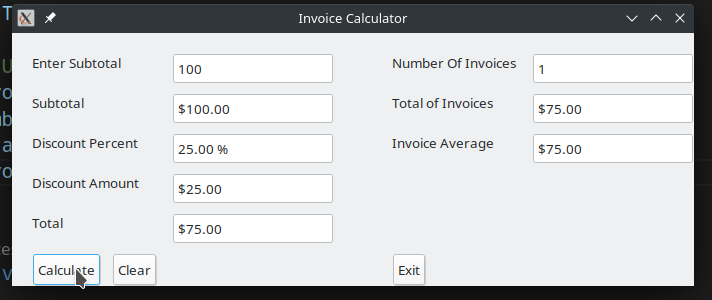
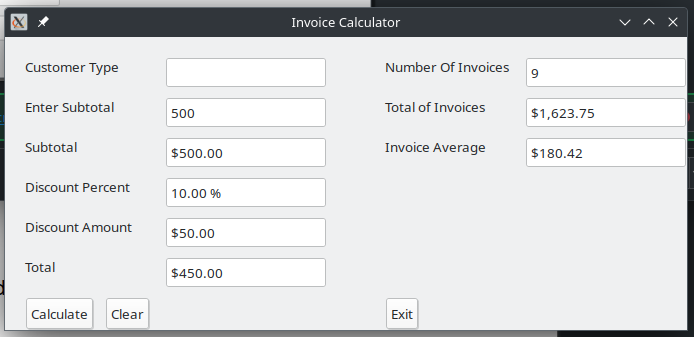
Complete lab 4

diff --git a/Assignments/Lab4_EnhancedInvoiceTotal/InvoiceCalculator.cs b/Assignments/Lab4_EnhancedInvoiceTotal/InvoiceCalculator.cs
@@ -1,0 +1,227 @@
+using System;
+using System.Collections.Generic;
+using System.Linq;
+using Gtk;
+
+// Alias
+using con = System.Console;
+
+class Calculator : Window
+{
+    // Static memory
+    static NumericInput custType;
+
+    static NumericInput inSubtotal;
+
+    static NumericInput outSubtotal;
+
+    static NumericInput outDiscountPercent;
+
+    static NumericInput outDiscountAmount;
+
+    static NumericInput outTotal;
+
+    static NumericInput numberInvoices;
+
+    static NumericInput totalInvoices;
+
+    static NumericInput invoiceAverage;
+
+    // Other memory
+    static List<double> invoiceList = new List<double>();
+
+    public Calculator() :
+        base("Color Dialog")
+    {
+        // Start this application
+        Application.Init();
+
+        // Setup all objects
+        Fixed fix = new Fixed();
+        Button calcBtn = new Button("Calculate");
+        fix.Put(calcBtn, 20, 260);
+        Button clearBtn = new Button("Clear");
+        fix.Put(clearBtn, 100, 260);
+        Button exitBtn = new Button("Exit");
+        fix.Put(exitBtn, 380, 260);
+
+        // All the input boxes
+        custType = new NumericInput("Customer Type", "R");
+        fix.Put(custType.localFix, 20, 20);
+        inSubtotal = new NumericInput("Enter Subtotal", "");
+        fix.Put(inSubtotal.localFix, 20, 60);
+        outSubtotal = new NumericInput("Subtotal", "$50.00");
+        fix.Put(outSubtotal.localFix, 20, 100);
+        outDiscountPercent = new NumericInput("Discount Percent", "25.0%");
+        fix.Put(outDiscountPercent.localFix, 20, 140);
+        outDiscountAmount = new NumericInput("Discount Amount", "12.50");
+        fix.Put(outDiscountAmount.localFix, 20, 180);
+        outTotal = new NumericInput("Total", "$37.50");
+        fix.Put(outTotal.localFix, 20, 220);
+
+        // Row 2
+        numberInvoices = new NumericInput("Number Of Invoices", "");
+        fix.Put(numberInvoices.localFix, 380, 20);
+        totalInvoices = new NumericInput("Total of Invoices", "$165.00");
+        fix.Put(totalInvoices.localFix, 380, 60);
+        invoiceAverage = new NumericInput("Invoice Average", "$55.00");
+        fix.Put(invoiceAverage.localFix, 380, 100);
+
+        // Setup Callbacks
+        calcBtn.Clicked += new EventHandler(pCalculate);
+        exitBtn.Clicked += new EventHandler(pExit);
+        clearBtn.Clicked += new EventHandler(pClear);
+
+        Window window = new Window("Invoice Calculator");
+
+        // Check when window is closed.
+        window.DeleteEvent += pExit;
+
+        // Add the button to the window and display everything
+        window.Add (fix);
+        window.ShowAll();
+
+        Application.Run();
+    }
+
+    static void pClear(object obj, EventArgs args)
+    {
+        // Clears the.. whatever.
+    }
+
+    static void pCalculate(object obj, EventArgs args)
+    {
+        // Get the subtotal
+        double userSubtotal = inSubtotal.getEntry();
+
+        outSubtotal.setEntry($"{userSubtotal:C}"); // Idk why
+
+        // Discount percentage
+        double discountPercent = 0.25;
+
+        // NEW EXCEPTIONS
+        switch (custType.getStr())
+        {
+            case "R":
+                if (userSubtotal < 100)
+                {
+                    discountPercent = 0;
+                }
+                else if (userSubtotal >= 100 && userSubtotal < 250)
+                {
+                    discountPercent = 0.10;
+                }
+                else
+                {
+                    discountPercent = 0.25;
+                }
+                break;
+            case "T":
+                if (userSubtotal < 500)
+                {
+                    discountPercent = 0.40;
+                }
+                else
+                {
+                    discountPercent = 0.50;
+                }
+                break;
+            case "C":
+                if (userSubtotal < 250)
+                {
+                    discountPercent = 0.20;
+                }
+                else
+                {
+                    discountPercent = 0.30;
+                }
+                break;
+            default:
+                discountPercent = 0.10;
+                break;
+        }
+
+        // Update discount amount
+        outDiscountPercent.setEntry($"{discountPercent:P}");
+
+        // The value of the discount
+        double discount = discountPercent * userSubtotal;
+        outDiscountAmount.setEntry($"{discount:C}");
+
+        // The new total
+        double total = userSubtotal - discount;
+        outTotal.setEntry($"{total:C}");
+
+        // Update the overall invoice list
+        invoiceList.Add (total);
+        numberInvoices.setEntry($"{invoiceList.Count}");
+        totalInvoices.setEntry($"{invoiceList.Sum():C}");
+        invoiceAverage.setEntry($"{invoiceList.Average():C}");
+    }
+
+    static void pExit(object obj, EventArgs args)
+    {
+        Application.Quit();
+    }
+
+    static void Main(string[] args)
+    {
+        Application.Init();
+        new Calculator();
+        Application.Run();
+    }
+}
+
+class NumericInput
+{
+    public Fixed localFix { get; }
+
+    private Label localLabel;
+
+    private Entry localEntry;
+
+    // Creates a numeric input
+    public NumericInput(string _inputLabel, string _default = "0")
+    {
+        localFix = new Fixed();
+        localLabel = new Label(_inputLabel);
+        localEntry = new Entry(_default); // Would require subclassing to enforce numbers only
+
+        // Place widgets
+        localFix.Put(localLabel, 0, 0);
+        localFix.Put(localEntry, 140, 0);
+    }
+
+    public double getEntry()
+    {
+        double r = 0;
+        try
+        {
+            r = double.Parse(localEntry.Text);
+        }
+        catch (Exception ex)
+        {
+            // On format exception...
+            MessageDialog md =
+                new MessageDialog(null,
+                    DialogFlags.DestroyWithParent,
+                    MessageType.Warning,
+                    ButtonsType.Ok,
+                    $"Error: {ex.GetType().ToString()}");
+            md.Run(); // Run till button push
+            md.Destroy();
+        }
+
+        return r;
+    }
+
+    public string getStr()
+    {
+        return localEntry.Text;
+    }
+
+    public void setEntry(string str)
+    {
+        localEntry.Text = str;
+    }
+}

diff --git a/Assignments/Lab4_EnhancedInvoiceTotal/Writeup.tex b/Assignments/Lab4_EnhancedInvoiceTotal/Writeup.tex
@@ -44,16 +44,6 @@ Source code for \textsf{InvoiceCalculator.cs}
 
 \includegraphics[width=10cm]{Ex4}
 
-\includegraphics[width=10cm]{Ex5}
-
-\includegraphics[width=10cm]{Ex6}
-
-\includegraphics[width=10cm]{Ex7}
-
-\includegraphics[width=10cm]{Ex8}
-
-\includegraphics[width=10cm]{Ex9}
-
 
 \newpage
 

diff --git a/Assignments/Lab4_EnhancedInvoiceTotal/README.md b/Assignments/Lab4_EnhancedInvoiceTotal/README.md
@@ -1,0 +1,1 @@
+#  InvoiceCalculator
